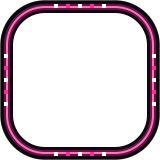
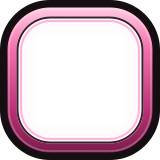
feat: video clips in callout bubble with live mini players; premium gothic frame; fix EQ knob overflow on presets

diff --git a/Sources/Wineup/Panels/MotionLibraryView.swift b/Sources/Wineup/Panels/MotionLibraryView.swift
@@ -16,7 +16,11 @@ struct MotionLibraryView: View {
     @State private var confirmDelete: VideoCategory?
 
     private static let scenes: [VisualMode] = [.aurora, .fjord, .city, .universe]
-    private let grid = [GridItem(.adaptive(minimum: 150, maximum: 200), spacing: 14)]
+    private static let columns = 4
+    private static let gap: CGFloat = 14
+    /// Largura útil (720 − margens) dividida em 4 colunas fixas: assim o balão sabe onde apontar.
+    private static let cellWidth: CGFloat = (680 - gap * CGFloat(columns - 1)) / CGFloat(columns)
+    private let grid = Array(repeating: GridItem(.fixed(cellWidth), spacing: gap), count: columns)
 
     private var selectedScene: VisualMode? {
         motion.hasPrefix("scene:") ? VisualMode(rawValue: String(motion.dropFirst(6))) : nil
@@ -42,16 +46,7 @@ struct MotionLibraryView: View {
                         }
                     }
                     section("Vídeos", "Sem som, um clipe diferente a cada música.") {
-                        LazyVGrid(columns: grid, spacing: 14) {
-                            ForEach(store.categories) { c in categoryCard(c) }
-                            addCard
-                        }
-                    }
-                    if let c = selectedCategory {
-                        clipList(c)
-                            .id("clips")
-                            .transition(.asymmetric(insertion: .move(edge: .top).combined(with: .opacity),
-                                                    removal: .opacity))
+                        videoGrid
                     }
                 }
                 .padding(20)
@@ -59,7 +54,9 @@ struct MotionLibraryView: View {
             }
             .onChange(of: motion) { _, new in
                 guard new.hasPrefix("video:") else { return }
-                withAnimation(.easeInOut(duration: 0.45)) { proxy.scrollTo("clips", anchor: .bottom) }
+                DispatchQueue.main.asyncAfter(deadline: .now() + 0.15) {
+                    withAnimation(.easeInOut(duration: 0.45)) { proxy.scrollTo("clips", anchor: .bottom) }
+                }
             }
             }
         }
@@ -127,8 +124,32 @@ struct MotionLibraryView: View {
         .buttonStyle(.plain)
     }
 
-    /// Os vídeos da categoria escolhida, com miniatura e nome.
-    private func clipList(_ c: VideoCategory) -> some View {
+    /// Grade de categorias em linhas; abaixo da linha do card escolhido abre um balão
+    /// com a ponta apontando para ele, com os vídeos tocando em players pequenos.
+    private var videoGrid: some View {
+        let items: [VideoCategory?] = store.categories.map { Optional($0) } + [nil]
+        let rows = stride(from: 0, to: items.count, by: Self.columns).map { Array(items[$0..<min($0 + Self.columns, items.count)]) }
+        return VStack(alignment: .leading, spacing: Self.gap) {
+            ForEach(rows.indices, id: \.self) { r in
+                HStack(alignment: .top, spacing: Self.gap) {
+                    ForEach(rows[r].indices, id: \.self) { i in
+                        Group {
+                            if let c = rows[r][i] { categoryCard(c) } else { addCard }
+                        }
+                        .frame(width: Self.cellWidth)
+                    }
+                }
+                if let c = selectedCategory, let col = rows[r].firstIndex(where: { $0?.id == c.id }) {
+                    clipBubble(c, arrowX: CGFloat(col) * (Self.cellWidth + Self.gap) + Self.cellWidth / 2)
+                        .id("clips")
+                        .transition(.asymmetric(insertion: .scale(scale: 0.96, anchor: .top).combined(with: .opacity),
+                                                removal: .opacity))
+                }
+            }
+        }
+    }
+
+    private func clipBubble(_ c: VideoCategory, arrowX: CGFloat) -> some View {
         VStack(alignment: .leading, spacing: 10) {
             HStack {
                 Text("Vídeos em \(c.name)").font(.headline)
@@ -145,22 +166,26 @@ struct MotionLibraryView: View {
                     HStack(spacing: 12) {
                         ForEach(c.clips, id: \.self) { url in
                             VStack(alignment: .leading, spacing: 5) {
-                                VideoThumbnail(url: url)
-                                    .frame(width: 168, height: 96)
-                                    .clipShape(RoundedRectangle(cornerRadius: 8))
-                                    .overlay(alignment: .bottomTrailing) {
-                                        Image(systemName: "play.fill").font(.system(size: 9)).foregroundStyle(.white)
-                                            .padding(5).background(.black.opacity(0.45), in: Circle()).padding(6)
-                                    }
+                                ZStack {
+                                    VideoThumbnail(url: url)
+                                    VideoWall(clips: [url], trackKey: 0)
+                                }
+                                .frame(width: 176, height: 99)
+                                .clipShape(RoundedRectangle(cornerRadius: 8))
+                                .overlay(RoundedRectangle(cornerRadius: 8).strokeBorder(.white.opacity(0.08)))
                                 Text(Self.clipTitle(url, category: c)).font(.callout).lineLimit(1)
                             }
-                            .frame(width: 168)
+                            .frame(width: 176)
                         }
                     }
-                    .padding(12)
                 }
-                .background(RoundedRectangle(cornerRadius: 12).fill(.quaternary.opacity(0.5)))
             }
+        }
+        .padding(.horizontal, 14).padding(.bottom, 14).padding(.top, 14 + Callout.arrow)
+        .background {
+            Callout(arrowX: arrowX).fill(.regularMaterial)
+                .overlay(Callout(arrowX: arrowX).stroke(.separator, lineWidth: 0.5))
+                .shadow(color: .black.opacity(0.18), radius: 10, y: 4)
         }
     }
 
@@ -203,6 +228,27 @@ struct MotionLibraryView: View {
     }
 }
 
+/// Balão com ponta no topo (como os menus da barra do macOS), apontando para `arrowX`.
+private struct Callout: Shape {
+    static let arrow: CGFloat = 9
+    var arrowX: CGFloat
+    var animatableData: CGFloat { get { arrowX } set { arrowX = newValue } }
+
+    func path(in rect: CGRect) -> Path {
+        let a = Self.arrow, r: CGFloat = 12
+        let body = CGRect(x: rect.minX, y: rect.minY + a, width: rect.width, height: rect.height - a)
+        let x = min(max(arrowX, body.minX + r + a), body.maxX - r - a)
+        var p = Path(roundedRect: body, cornerRadius: r, style: .continuous)
+        var tip = Path()
+        tip.move(to: CGPoint(x: x - a - 2, y: body.minY + 0.5))
+        tip.addQuadCurve(to: CGPoint(x: x, y: rect.minY), control: CGPoint(x: x - 3, y: body.minY))
+        tip.addQuadCurve(to: CGPoint(x: x + a + 2, y: body.minY + 0.5), control: CGPoint(x: x + 3, y: body.minY))
+        tip.closeSubpath()
+        p.addPath(tip)
+        return p.union(tip)
+    }
+}
+
 /// Cartão de miniatura com título e legenda; o escolhido ganha borda de destaque.
 private struct Card<Preview: View>: View {
     let title: String
@@ -214,12 +260,10 @@ private struct Card<Preview: View>: View {
     var body: some View {
         Button(action: action) {
             VStack(alignment: .leading, spacing: 6) {
-                ZStack {
-                    Color.black
-                    preview()
-                }
-                .aspectRatio(16 / 10, contentMode: .fit)
-                .clipShape(RoundedRectangle(cornerRadius: 10))
+                Color.black
+                    .aspectRatio(16 / 10, contentMode: .fit)
+                    .overlay { preview() }
+                    .clipShape(RoundedRectangle(cornerRadius: 10))
                 .overlay(
                     RoundedRectangle(cornerRadius: 12)
                         .strokeBorder(selected ? Color.accentColor : .clear, lineWidth: 3)

diff --git a/Sources/Wineup/Panels/EqualizerPanel.swift b/Sources/Wineup/Panels/EqualizerPanel.swift
@@ -41,7 +41,7 @@ struct EqualizerPanel: View {
             .help(state.soundCorrection ? "Correção de Som ligada: todas as músicas no mesmo volume"
                                         : "Correção de Som: deixar todas as músicas no mesmo volume")
             SkinMenu(help: "Preset do equalizador") {
-                Picker("Preset", selection: Binding(get: { state.preset }, set: { state.apply(preset: $0) })) {
+                Picker("Preset", selection: Binding(get: { state.preset }, set: { p in withAnimation(.spring(response: 0.35, dampingFraction: 0.85)) { state.apply(preset: p) } })) {
                     ForEach((state.presets.map(\.name) + ["Custom"]), id: \.self) { Text($0).tag($0) }
                 }
                 .pickerStyle(.inline)
@@ -50,7 +50,7 @@ struct EqualizerPanel: View {
                 Text(state.preset).lineLimit(1).truncationMode(.tail).frame(maxWidth: 62, alignment: .leading)
             }
             .frame(maxWidth: .infinity)
-            ChromeButton("Reset") { state.apply(preset: "Flat"); state.preamp = 0 }
+            ChromeButton("Reset") { withAnimation(.spring(response: 0.35, dampingFraction: 0.85)) { state.apply(preset: "Flat"); state.preamp = 0 } }
                 .frame(width: 48)
             presetBar
         }

diff --git a/Sources/Wineup/Components/ChromeSlider.swift b/Sources/Wineup/Components/ChromeSlider.swift
@@ -22,10 +22,20 @@ struct ChromeSlider: View {
         }
     }
 
+    /// Comprimento real do puxador no eixo: o do skin quando há imagem (senão o puxador
+    /// passava do trilho nos extremos, ex.: presets com bandas em ±12 dB).
+    private var effectiveKnobLength: CGFloat {
+        if let art = theme.art, art.image(art.manifest.controls.knob) != nil {
+            return CGFloat(art.manifest.controls.knobSize ?? 20)
+        }
+        return knobLength
+    }
+
     var body: some View {
         GeometryReader { geo in
             let horizontal = axis == .horizontal
             let length = horizontal ? geo.size.width : geo.size.height
+            let knobLength = effectiveKnobLength
             let travel = max(length - knobLength, 1)
             let span = range.upperBound - range.lowerBound
             let fraction = span == 0 ? 0 : (value - range.lowerBound) / span
